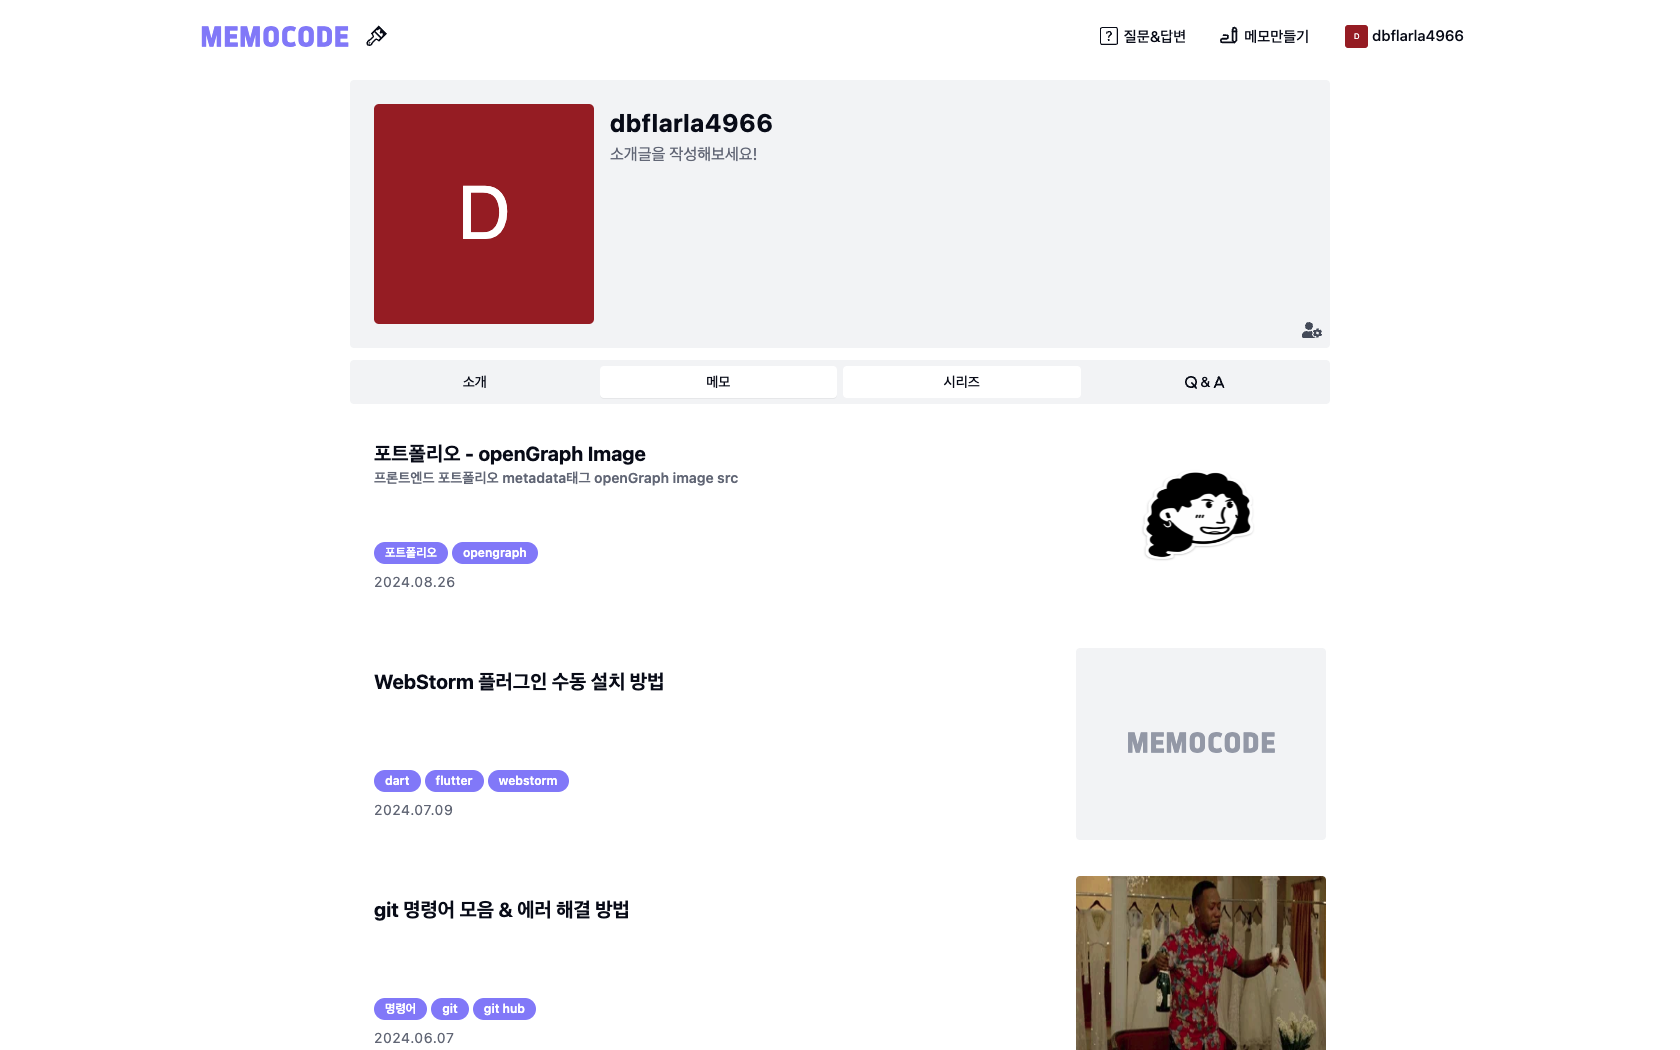
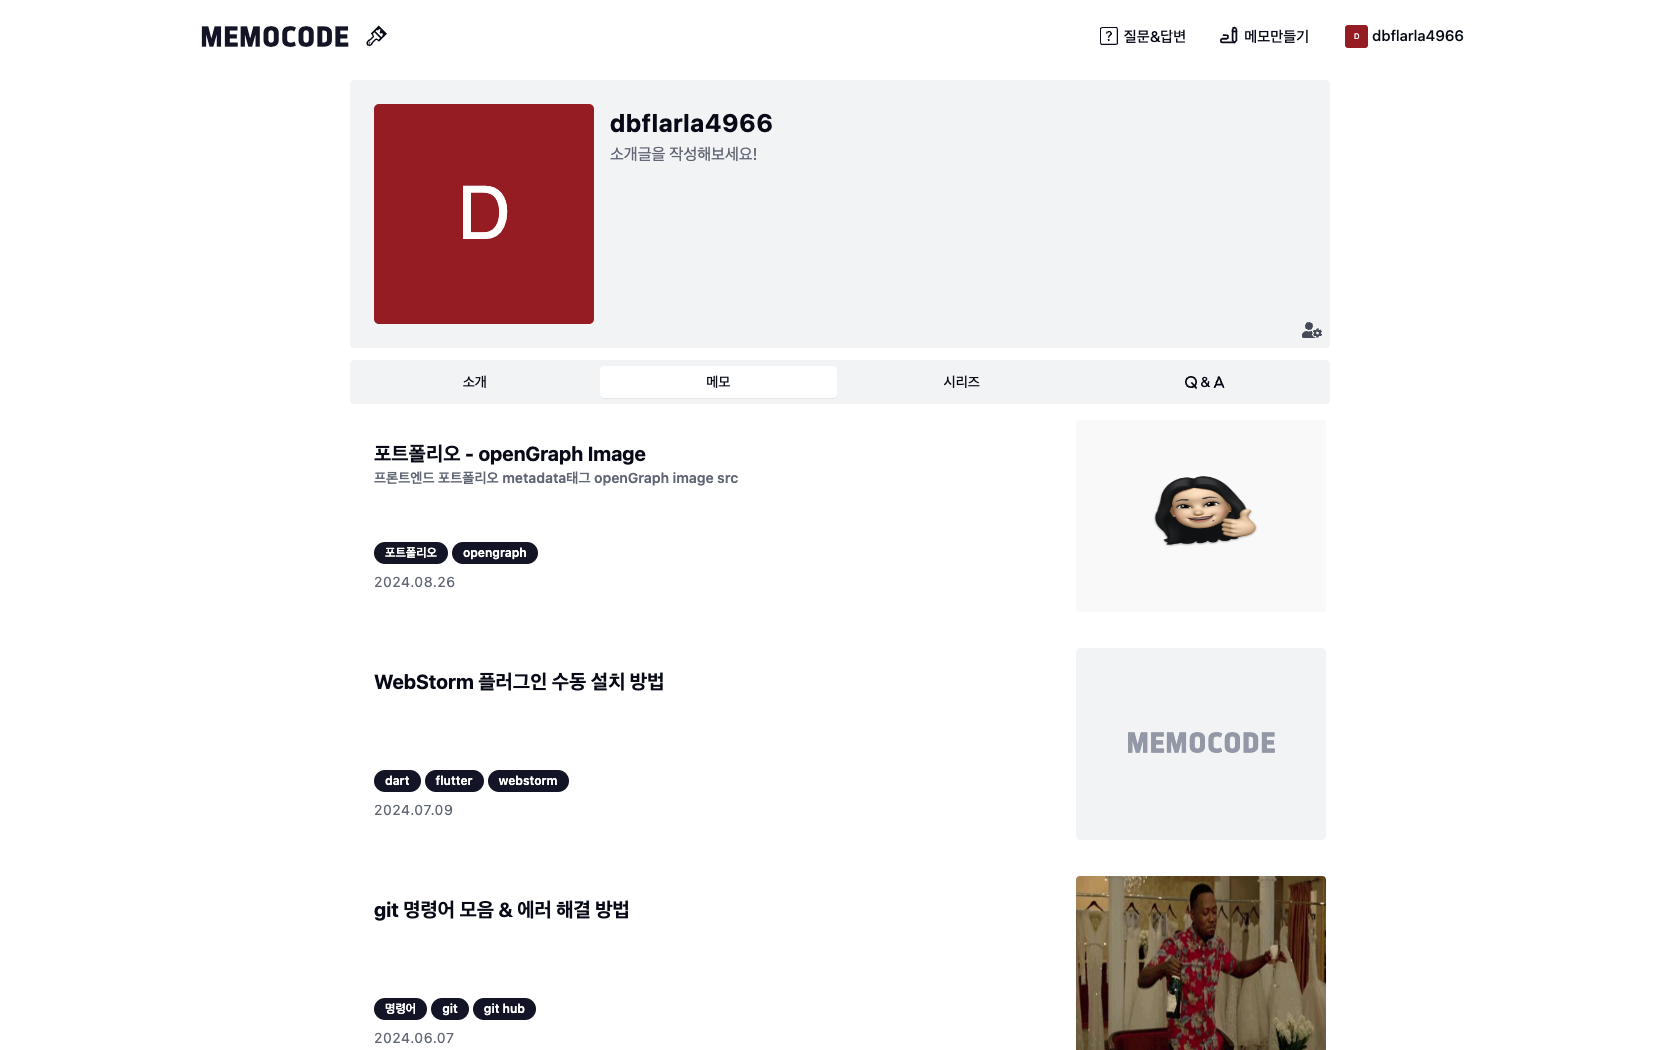
update

diff --git a/src/data/memocode_images.tsx b/src/data/memocode_images.tsx
@@ -1,0 +1,93 @@
+import {Image} from "@/model/image";
+import {GoDotFill} from "react-icons/go";
+
+const memocode_images: Image[] = [
+    {
+        id: 1, src: "/image/memocode/memocode_main1.png", title: "메인페이지",
+        descriptions:
+            <div className="space-y-3">
+                <div className="flex items-start text-[15px]">
+                    <GoDotFill className="flex-shrink-0 mt-1 w-3 h-3"/>
+                    <span
+                        className="ml-1.5 text-[14px]">ThemeContext를 사용하여 테마(light/dark)와 색상(primaryColor) 설정을 관리</span>
+                </div>
+                <div className="flex items-start text-[15px]">
+                    <GoDotFill className="flex-shrink-0 mt-1 w-3 h-3"/>
+                    <span className="ml-1.5 text-[14px]">localStorage를 통해 상태를 저장하여 재접속 시 선택한 테마를 그대로 적용</span>
+                </div>
+                <div className="flex items-start text-[15px]">
+                    <GoDotFill className="flex-shrink-0 mt-1 w-3 h-3"/>
+                    <span className="ml-1.5 text-[14px]">ThemeContext를 기반으로 useTheme 훅을 구현하여, 사용편의성을 높힘</span>
+                </div>
+                <div className="flex items-start text-[15px]">
+                    <GoDotFill className="flex-shrink-0 mt-1 w-3 h-3"/>
+                    <span className="ml-1.5 text-[14px]">서버 사이드 컴포넌트에서 SSR을 통해 전체 메모 리스트를 불러오는 함수를 호출하여 초기 데이터를 서버에서 미리 가져와 페이지 렌더링</span>
+                </div>
+                <div className="flex items-start text-[15px]">
+                    <GoDotFill className="flex-shrink-0 mt-1 w-3 h-3"/>
+                    <span className="ml-1.5 text-[14px]">클라이언트 사이드 컴포넌트에서 CSR을 통해 스크롤이 끝날 때마다 추가 데이터를 동적으로 가져오는 방식으로 구현(무한 스크롤)</span>
+                </div>
+            </div>
+    },
+    {
+        id: 2, src: "/image/memocode/memocode_main_search.png", title: "메인페이지_검색",
+        descriptions:
+            <div>
+                <div className="flex items-start text-[15px]">
+                    <GoDotFill className="flex-shrink-0 mt-1 w-3 h-3"/>
+                    <span
+                        className="ml-1.5 text-[14px]">검색결과 렌더링 시 DOMPurify.sanitize()를 사용하여 안전하게 표시</span>
+                </div>
+            </div>
+    },
+    {id: 3, src: "/image/memocode/memocode_detail1.png", title: "메모상세페이지_게시글"},
+    {
+        id: 4, src: "/image/memocode/memocode_detail2.png", title: "메모상세페이지_댓글/대댓글",
+        descriptions:
+            <div className="space-y-3">
+                <div className="flex items-start text-[15px]">
+                    <GoDotFill className="flex-shrink-0 mt-1 w-3 h-3"/>
+                    <span
+                        className="ml-1.5 text-[14px]">로그인 여부 및 댓글 삭제 상태에 따라 적절한 문구를 동적으로 표시하여, 사용자에게 댓글의 상태를 명확하고 직관적으로 전달</span>
+                </div>
+                <div className="flex items-start text-[15px]">
+                    <GoDotFill className="flex-shrink-0 mt-1 w-3 h-3"/>
+                    <span
+                        className="ml-1.5 text-[14px]">각 댓글 닫기 버튼에 아코디언 효과를 적용하여 공간을 효율적으로 관리하고 답글 개수를 한눈에 확인할 수 있도록 구현</span>
+                </div>
+            </div>
+    },
+    // {id: 5, src: "/image/memocode/memocode_login.png", title: "로그인"},
+    {id: 5, src: "/image/memocode/memocode_myblog1.png", title: "내 블로그페이지_내 메모 탭"},
+    {
+        id: 6, src: "/image/memocode/memocode_w1.png", title: "메모작성페이지",
+        descriptions:
+            <div className="space-y-3">
+                <div className="flex items-start text-[15px]">
+                    <GoDotFill className="flex-shrink-0 mt-1 w-3 h-3"/>
+                    <span
+                        className="ml-1.5 text-[14px]">사용자가 필요에 따라 사이드바의 너비를 드래그하여 동적으로 조정할 수 있도록 구현</span>
+                </div>
+                <div className="flex items-start text-[15px]">
+                    <GoDotFill className="flex-shrink-0 mt-1 w-3 h-3"/>
+                    <span className="ml-1.5 text-[14px]">SideBarContext를 기반으로 useSidebar 훅을 구현하여, 사용편의성을 높힘</span>
+                </div>
+                <div className="flex items-start text-[15px]">
+                    <GoDotFill className="flex-shrink-0 mt-1 w-3 h-3"/>
+                    <span className="ml-1.5 text-[14px]">공개, 비공개, 즐겨찾기, 보안 탭을 구성하여 사용자가 메모를 카테고리별로 관리하고 신속하게 접근할 수 있도록 설계</span>
+                </div>
+            </div>
+    },
+    {id: 7, src: "/image/memocode/memocode_w_search.png", title: "메모작성페이지_검색"},
+    {id: 8, src: "/image/memocode/memocode_w2.png", title: "메모작성페이지_메모 등록"},
+    {id: 9, src: "/image/memocode/memocode_w3.png", title: "메모작성페이지_메모 작성"},
+    {id: 10, src: "/image/memocode/memocode_w4.png", title: "메모작성페이지_메모 미리보기"},
+    {id: 11, src: "/image/memocode/memocode_w5.png", title: "메모작성페이지_메모 정보 수정"},
+    {id: 12, src: "/image/memocode/memocode_qna1.png", title: "질문/답변페이지"},
+    {id: 13, src: "/image/memocode/memocode_qna_search.png", title: "질문/답변페이지_검색"},
+    {id: 14, src: "/image/memocode/memocode_qna_w.png", title: "질문등록페이지"},
+    {id: 15, src: "/image/memocode/memocode_qna_detail1.png", title: "질문/답변 상세페이지"},
+    {id: 16, src: "/image/memocode/memocode_qna_detail2.png", title: "질문/답변 상세페이지_댓글/대댓글"},
+];
+
+export default memocode_images;

diff --git a/src/components/project/detail/Content_Project_Memocode.tsx b/src/components/project/detail/Content_Project_Memocode.tsx
@@ -1,7 +1,7 @@
 import memocode from "@/data/memocode";
 import Content_Project_Detail_Info from "@/components/project/Content_Project_Detail_Info";
 import {ModalContext, ModalTypes} from "@/context/ModalContext";
-import {useContext} from "react";
+import {useContext, useState} from "react";
 import Content_Project_Detail_Image_Expansion_Modal
     from "@/components/project/detail/Content_Project_Detail_Image_Expansion_Modal";
 import Content_Project_Memocode_DevReason
@@ -12,11 +12,13 @@ import Content_Project_Memocode_Improvement
     from "@/components/project/detail/memocode/Content_Project_Memocode_Improvement";
 import Content_Project_Memocode_Point from "@/components/project/detail/memocode/Content_Project_Memocode_Point";
 import memocode_images from "@/data/memocode_images";
+import {BsJournalRichtext} from "react-icons/bs";
 
 const Content_Project_Memocode = () => {
 
     const data = memocode;
     const {openModal} = useContext(ModalContext)
+    const [hoveredId, setHoveredId] = useState<number | null>(null)
 
     return (
         <>
@@ -34,8 +36,12 @@ const Content_Project_Memocode = () => {
                             className="grid grid-cols-1 sm:grid-cols-2 md:grid-cols-3 lg:grid-cols-4 2xl:grid-cols-5 gap-5 pt-5">
                             {memocode_images.map((data, index) => {
                                 return (
-                                    <div key={index} className="flex flex-col">
-                                        <img onClick={() => {
+                                    <div
+                                        key={index}
+                                        className="flex flex-col relative cursor-pointer"
+                                        onMouseOver={() => setHoveredId(data.id)}
+                                        onMouseLeave={() => setHoveredId(null)}
+                                        onClick={() => {
                                             openModal({
                                                 name: ModalTypes.CONTENT_PROJECT_IMAGE_EXPANSION,
                                                 data: {
@@ -45,10 +51,21 @@ const Content_Project_Memocode = () => {
                                                 }
                                             })
                                         }}
-                                             src={data.src}
-                                             alt={`memocode_image_${data.id}`}/>
-                                        <div
-                                            className="flex justify-center py-1 text-[14px] text-zinc-500">{data.title}</div>
+                                    >
+                                        <img
+                                            src={data.src}
+                                            alt={`memocode_image_${data.id}`}
+                                            className={`${hoveredId === data.id ? `scale-105` : `scale-100`} duration-300`}
+                                        />
+                                        {data.descriptions &&
+                                            <div
+                                                className="absolute top-1.5 left-1.5 bg-zinc-500 bg-opacity-80 rounded p-1.5">
+                                                <BsJournalRichtext className="text-white w-5 h-5"/>
+                                            </div>
+                                        }
+                                        <div className="flex justify-center py-1 text-[14px] text-zinc-500">
+                                            {data.title}
+                                        </div>
                                     </div>
                                 )
                             })}
@@ -63,7 +80,7 @@ const Content_Project_Memocode = () => {
                     <Content_Project_Memocode_DevReason/>
 
                     {/* 서비스 기능 및 특징 */}
-                    <Content_Project_Memocode_KeyFeatures/>
+                    {/*<Content_Project_Memocode_KeyFeatures/>*/}
 
                     {/* 이슈 및 해결방안 */}
                     <Content_Project_Memocode_Improvement/>

diff --git a/src/components/project/detail/memocode/Memocode_Images.tsx b/src/components/project/detail/memocode/Memocode_Images.tsx
@@ -1,21 +1,58 @@
 import {CarouselItem} from "@/components/ui/carousel";
 import {Image} from "@/model/image";
+import {IoMdArrowDropdown} from "react-icons/io";
+import {useState} from "react";
 
 interface MemocodeImagesProps {
     images: Image[];
 }
 
 const MemocodeImages = ({images}: MemocodeImagesProps) => {
+
+    const [toggled, setToggled] = useState<boolean>(true);
+
     return (
         <>
             {images?.map((image, index) => {
                 return (
-                    <CarouselItem key={index}>
+                    <CarouselItem key={index} className="relative">
                         <img
                             src={image.src}
                             alt={`memocode_expansion_image_${image.id}`}
                             className="rounded"
                         />
+
+                        {image.descriptions && (
+                            <div className="flex flex-col space-y-2 absolute bottom-3 top-5 right-1 sm:top-3 sm:right-3 w-[30%]">
+                                {/* 버튼 */}
+                                <div
+                                    onClick={() => setToggled((prev) => !prev)}
+                                    className="flex items-center justify-between cursor-pointer rounded h-10 p-2 bg-zinc-900 bg-opacity-80 shadow-xl"
+                                >
+                                    <div className="text-white text-[15px] tracking-wide">
+                                        기능 설명
+                                    </div>
+                                    <IoMdArrowDropdown
+                                        className={`h-6 w-6 shrink-0 transition-transform duration-200 text-white ${
+                                            toggled ? "rotate-180" : ""
+                                        }`}
+                                    />
+                                </div>
+
+                                {/* 설명 */}
+                                <div
+                                    className={`${
+                                        toggled
+                                            ? "max-h-full opacity-100 transition-all duration-500 ease-in-out"
+                                            : "max-h-0 opacity-0 transition-all duration-500 ease-in-out"
+                                    } overflow-y-auto rounded p-2 bg-zinc-900 bg-opacity-80 shadow-xl`}
+                                >
+                                    <div className="text-white">
+                                        {image.descriptions}
+                                    </div>
+                                </div>
+                            </div>
+                        )}
                     </CarouselItem>
                 )
             })}

diff --git a/src/components/project/detail/uno/Uno_Images.tsx b/src/components/project/detail/uno/Uno_Images.tsx
@@ -8,6 +8,7 @@ interface UnoImagesProps {
 }
 
 const UnoImages = ({ images }: UnoImagesProps) => {
+
     const [toggled, setToggled] = useState<boolean>(true);
 
     return (
